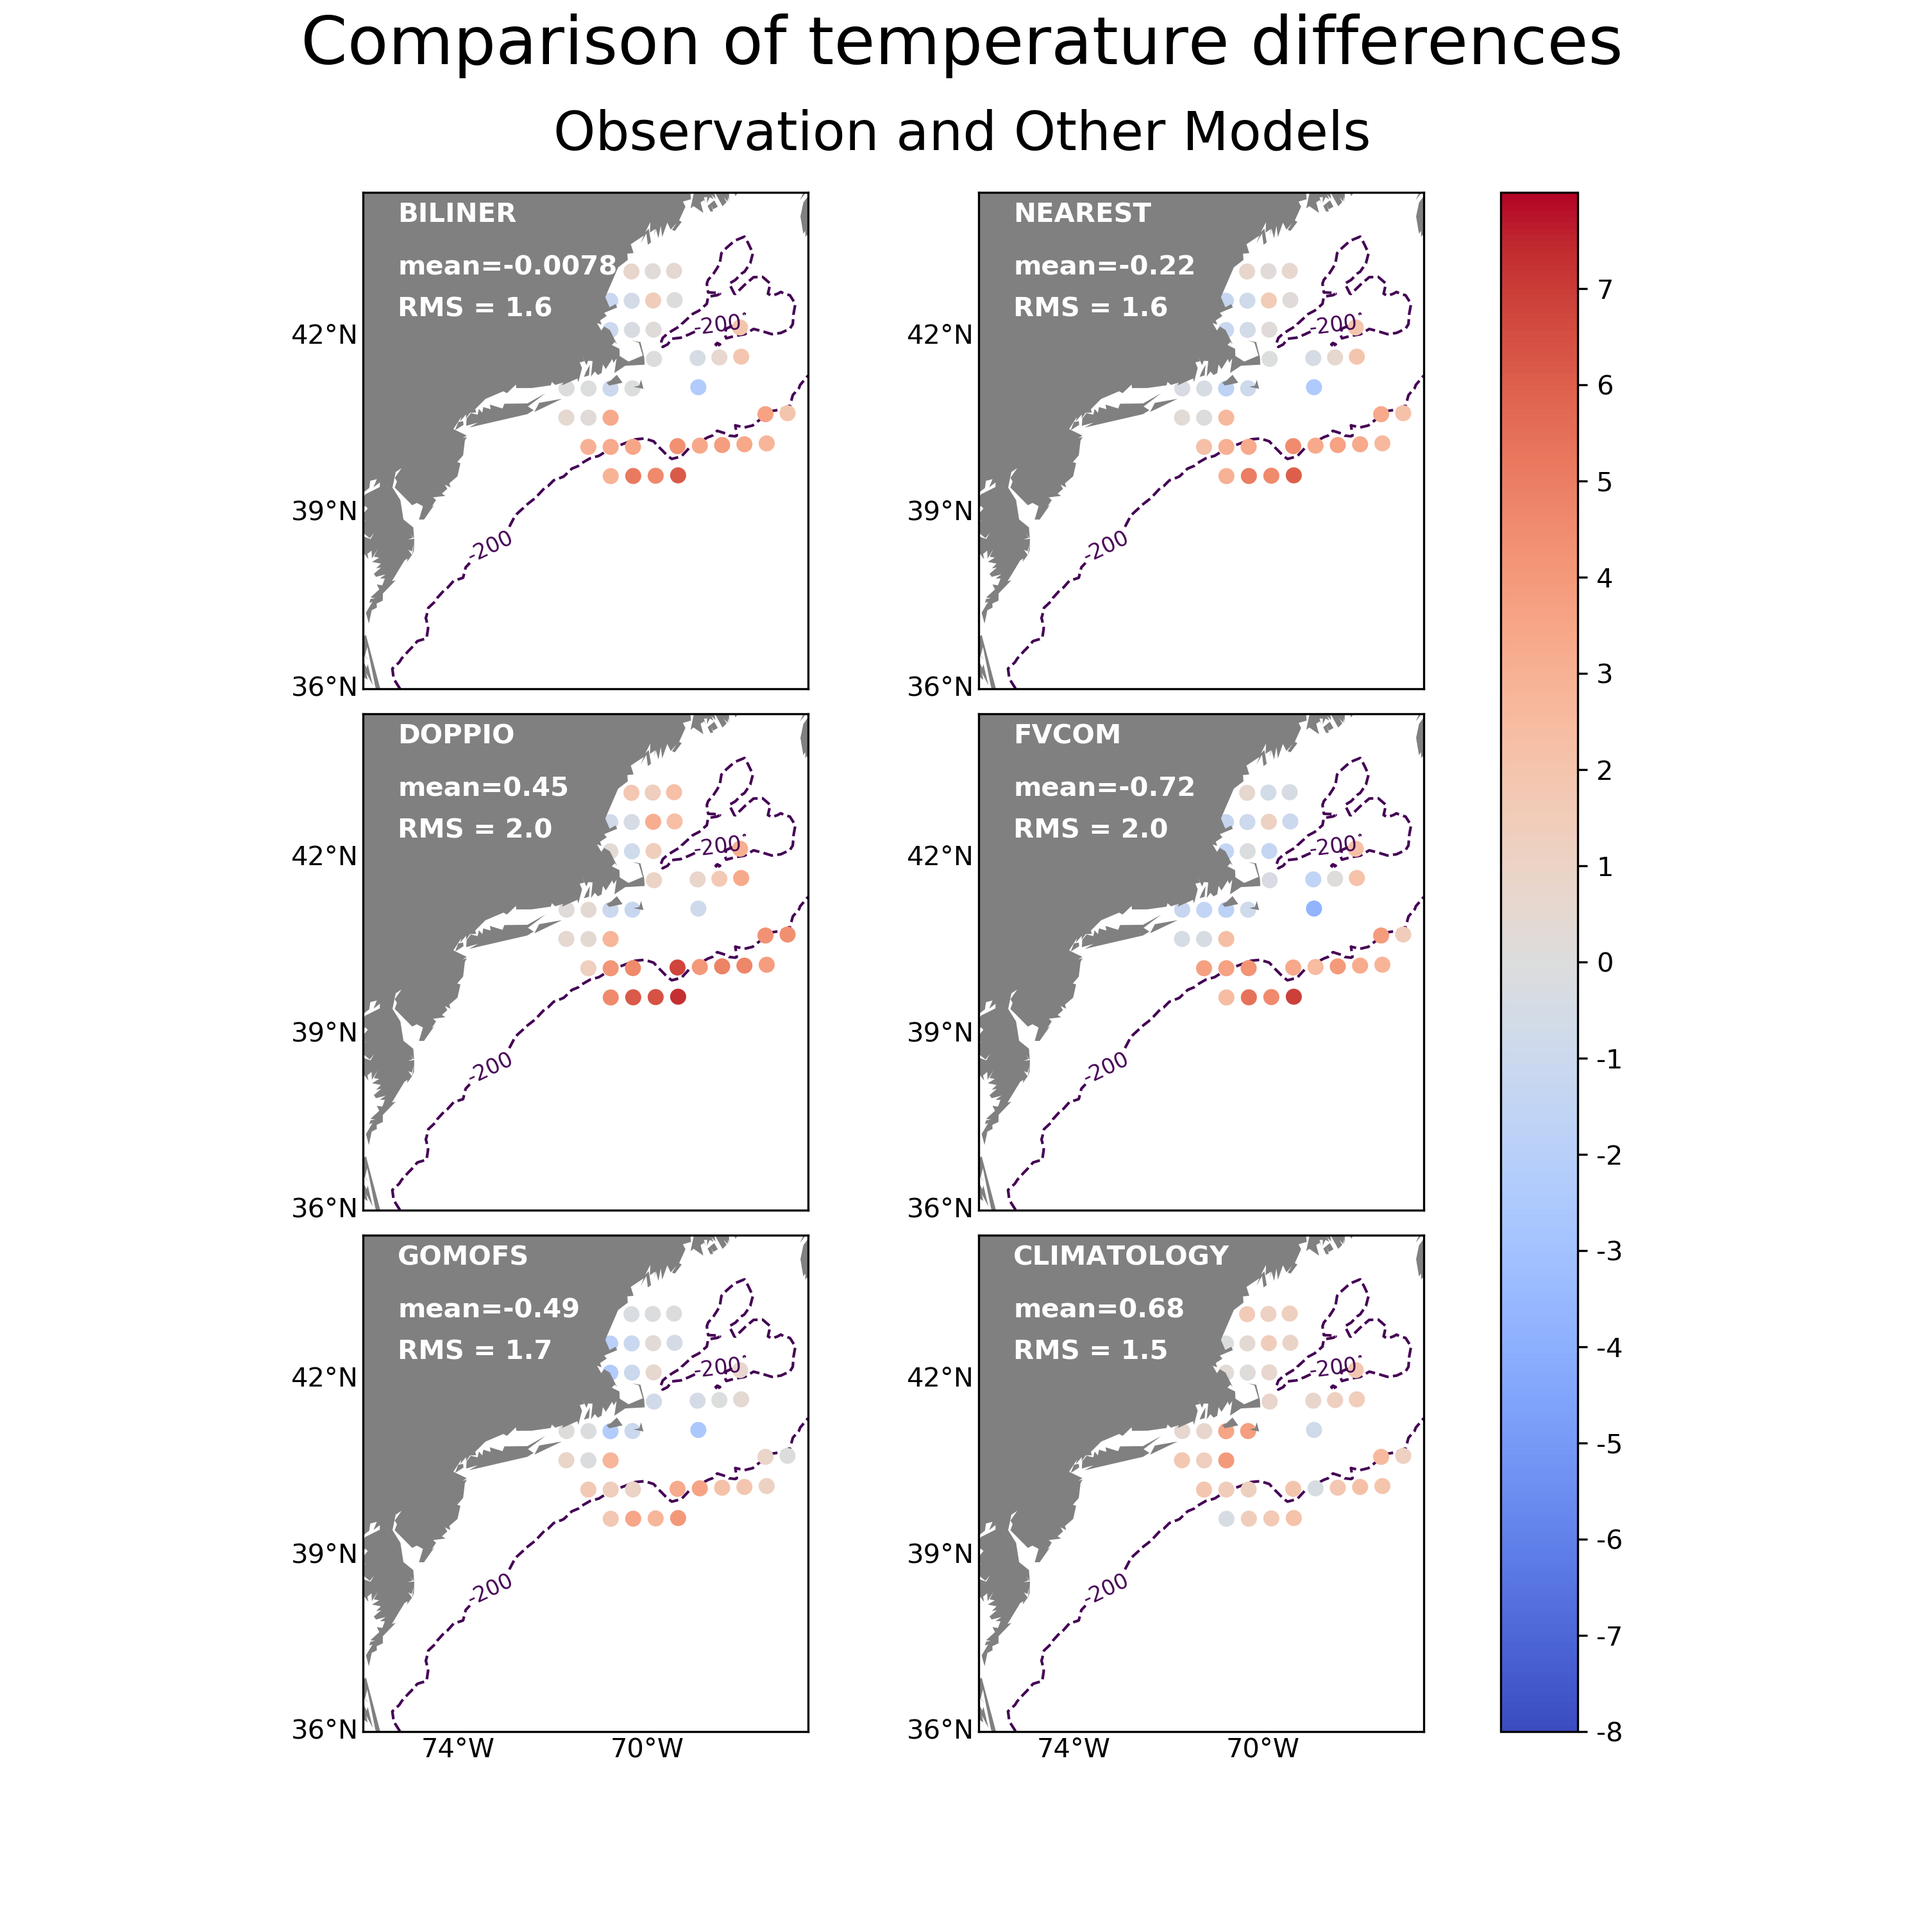
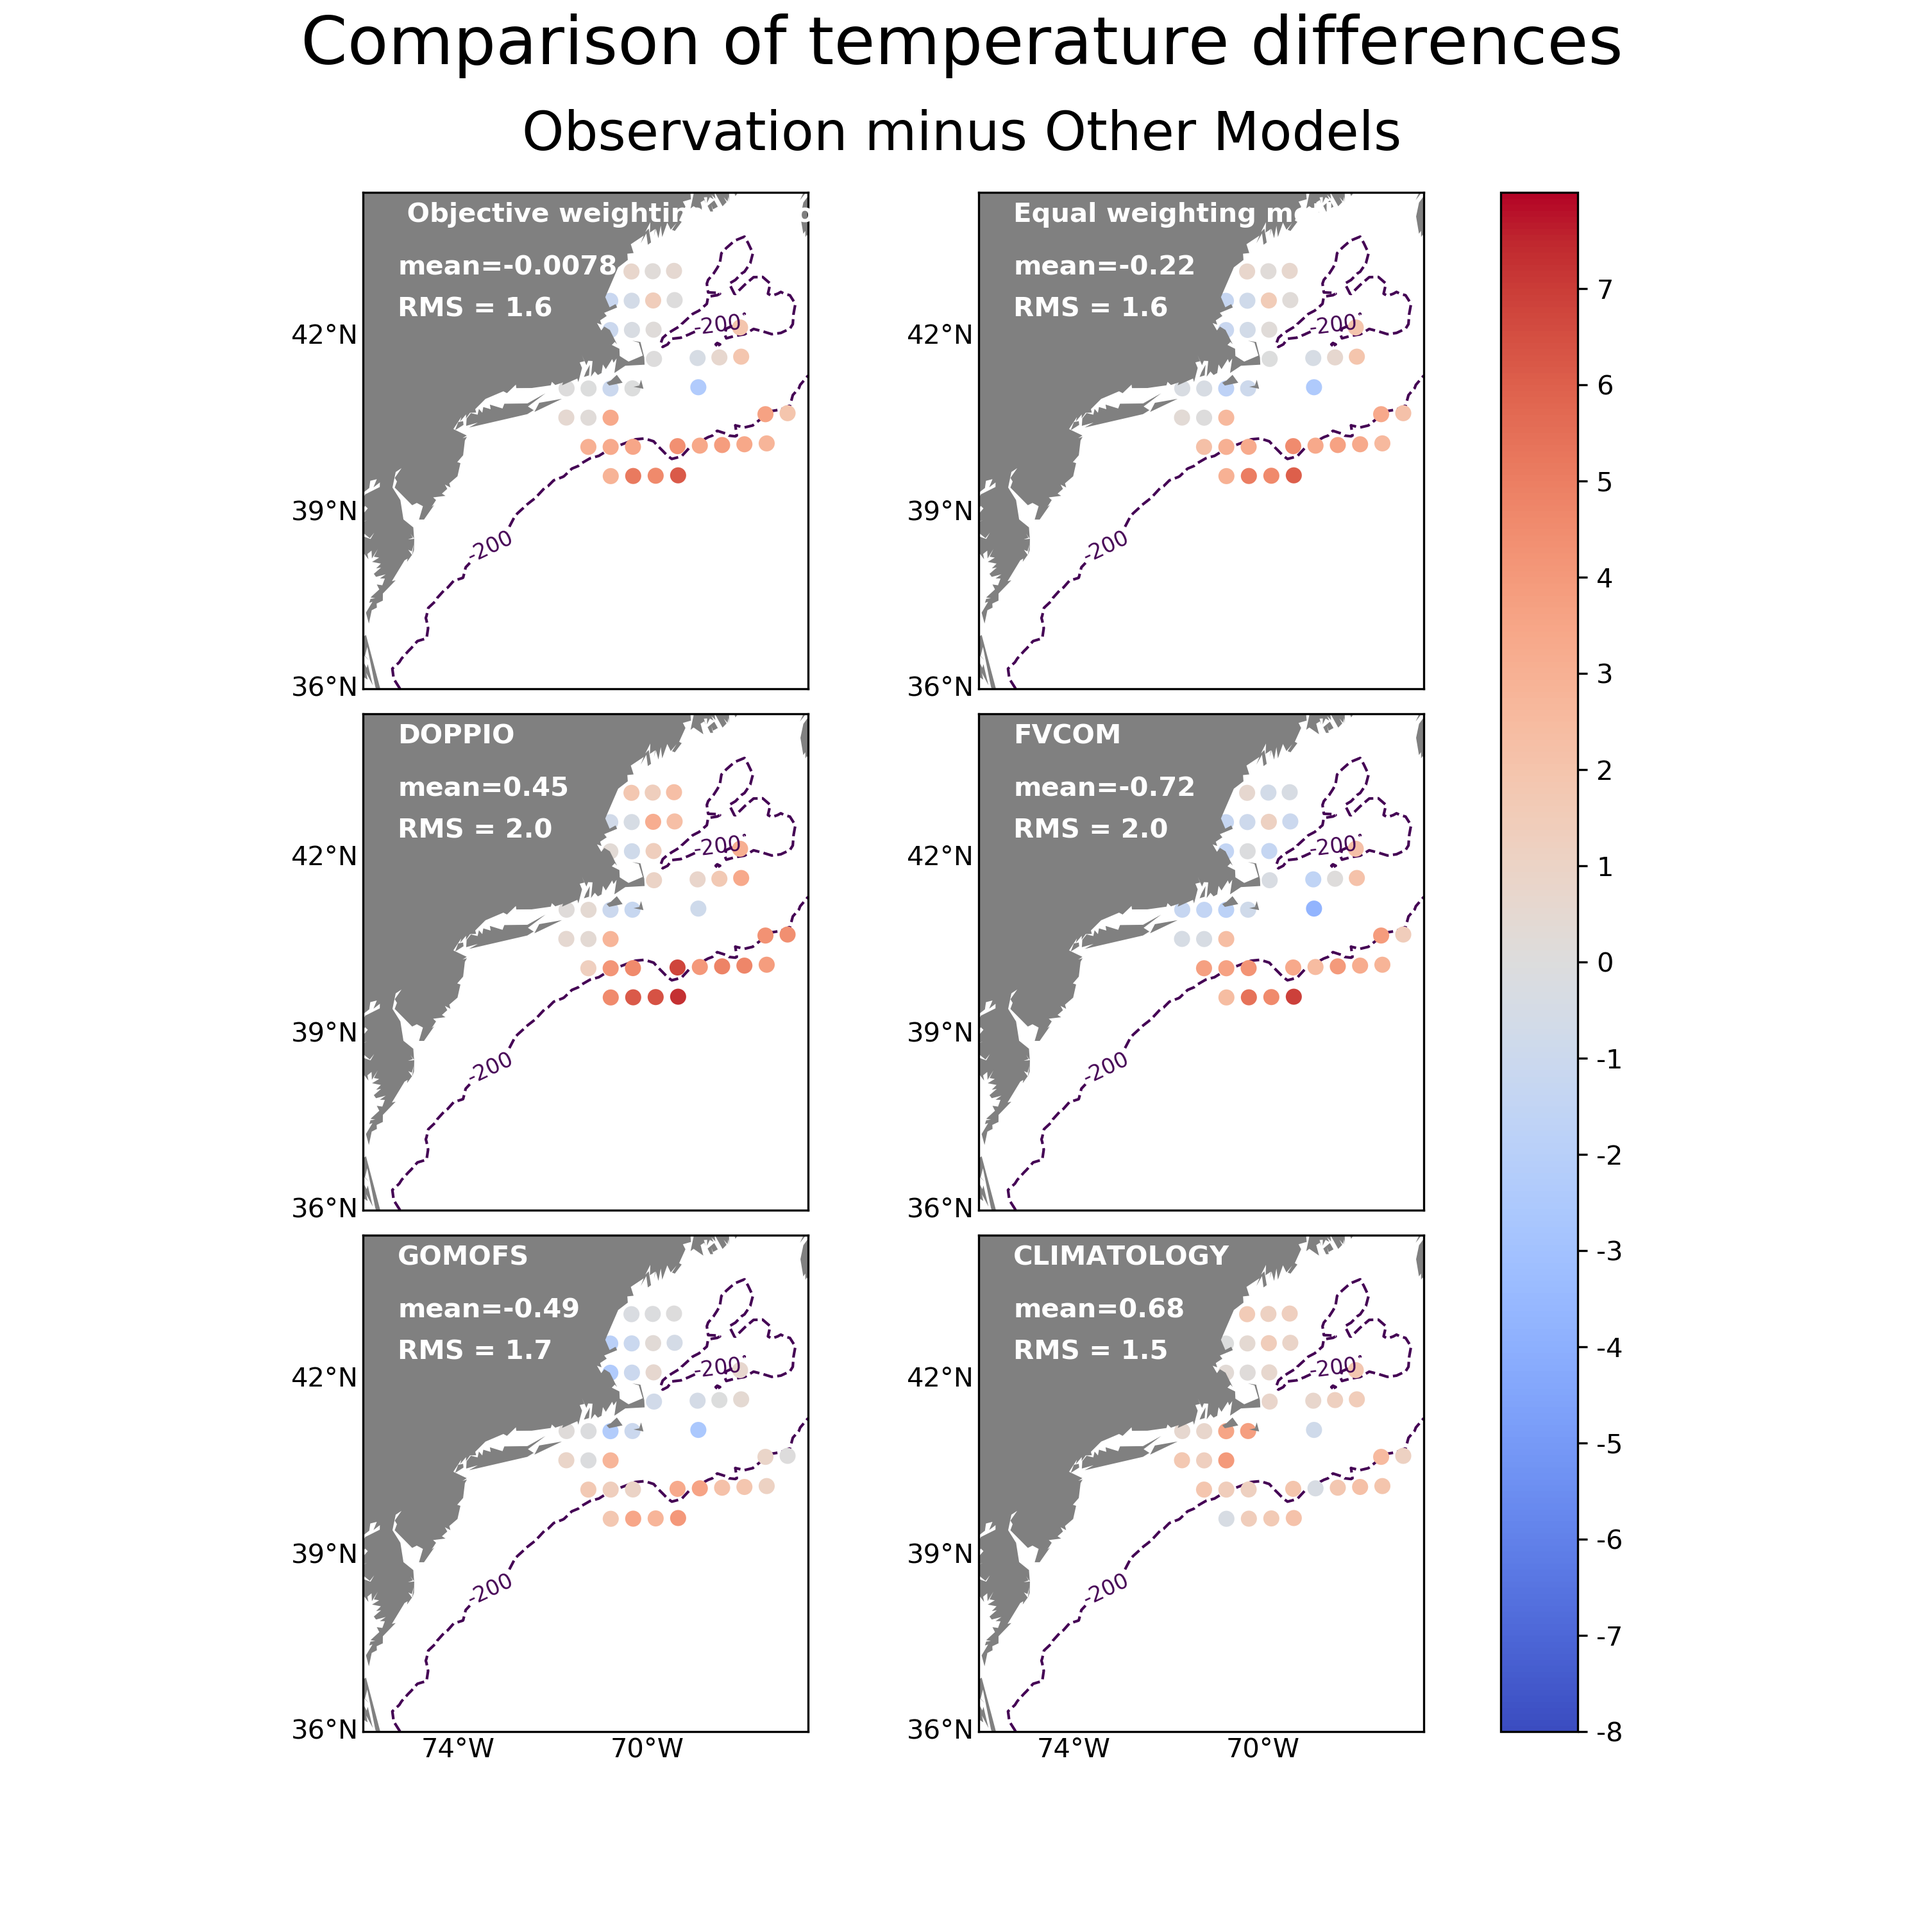
Add files via upload

Changed region(s): [[0.217, 0.062, 0.713, 0.124]]

diff --git a/Map obs-model  include ensemble/Map_obs_model_include_ensemble.py b/Map obs-model  include ensemble/Map_obs_model_include_ensemble.py
@@ -26,7 +26,7 @@ gridsize=0.5 # needed when which_method is binned in units of lat/lon
 which_mode='models' # 'models' or 'season'
 which_model=1 # 0-4 depends on options below used when which_mode= "season"
 ensemble = 'off'# 'on' or 'off' for using ensemble
-options=['BILINER','NEAREST','DOPPIO','FVCOM','GOMOFS','CLIMATOLOGY','MODELS']
+options=[' Objective weighting method','Equal weighting method','DOPPIO','FVCOM','GOMOFS','CLIMATOLOGY','MODELS']
 models=['obj','eq','Doppio_T','FVCOM_T','GoMOLFs_T','Clim_T','MODELS']
 seasons = ['WINTER', 'SPRING', 'SUMMER', 'FALL']  
 save_path = os.environ['PROJ_LIB']+'\\Map obs-model include ensemble.png'
@@ -146,7 +146,7 @@ for i in range(6):# this runs the other three
 c3 = fig.colorbar(a, ax=[ax1, ax2, ax3, ax4, ax5, ax6])
 c3.set_ticks(np.arange(-1*maxdiff_ignore,maxdiff_ignore))
 c3.set_ticklabels(np.arange(-maxdiff_ignore,maxdiff_ignore))
-fig.text(0.5, 0.93, 'Observation and Other Models', ha='center', va='center', fontsize=2.0*size)
+fig.text(0.5, 0.93, 'Observation minus Other Models', ha='center', va='center', fontsize=2.0*size)
 plt.suptitle('Comparison of temperature differences', va='center_baseline', fontsize=2.5*size)
 plt.savefig(save_path,dpi=300)
 plt.show()
